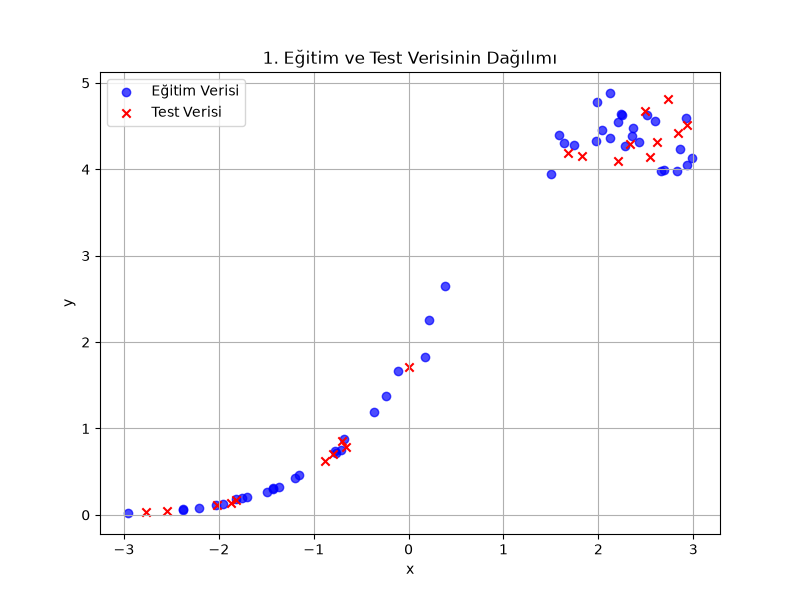
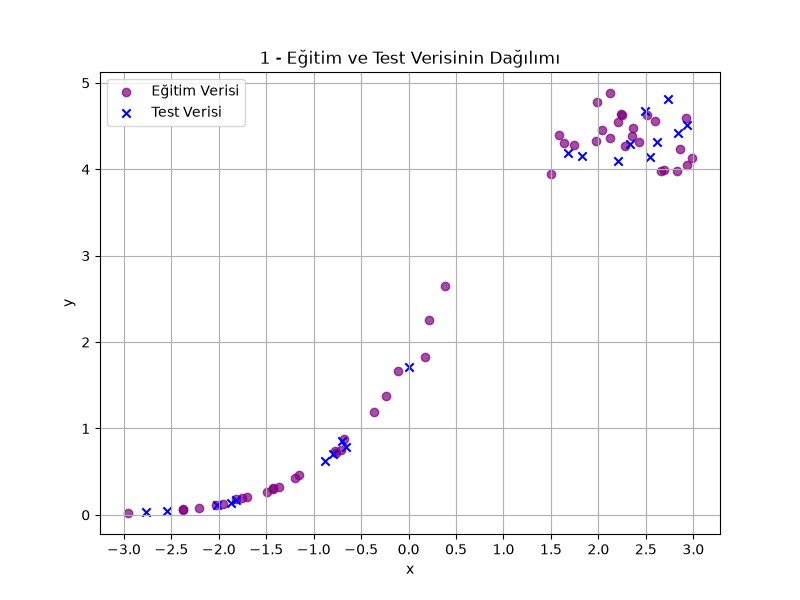
first 4 questions

diff --git a/optimization.py b/optimization.py
@@ -12,11 +12,13 @@ x_test, y_test = test_df.iloc[:, 0].values, test_df.iloc[:, 1].values
 x_pred_new = tahmin_df.iloc[:, 1].values
 
 plt.figure(figsize=(8, 6))
-plt.scatter(x_train, y_train, color="blue", label="Eğitim Verisi", alpha=0.7)
-plt.scatter(x_test, y_test, color="red", label="Test Verisi", marker="x")
+plt.scatter(x_train, y_train, color="purple", label="Eğitim Verisi", alpha=0.7)
+plt.scatter(x_test, y_test, color="blue", label="Test Verisi", marker="x")
+tum_bucuklular = np.arange(-3.0, 3.1, 0.5)
+plt.xticks(tum_bucuklular)
 plt.xlabel("x")
 plt.ylabel("y")
-plt.title("1. Eğitim ve Test Verisinin Dağılımı")
+plt.title("1 - Eğitim ve Test Verisinin Dağılımı")
 plt.legend()
 plt.grid(True)
 plt.savefig("soru1_veri.png")
@@ -35,14 +37,14 @@ def calculate_mse(y_true, y_pred):
 degrees = range(1, 9)
 train_mses = []
 test_mses = []
-models_beta = {}
+deg_to_coef = {}
 
 for deg in degrees:
   X_train = create_design_matrix(x_train, deg)
   X_test = create_design_matrix(x_test, deg)
 
   beta = np.linalg.inv(X_train.T @ X_train) @ X_train.T @ y_train
-  models_beta[deg] = beta
+  deg_to_coef[deg] = beta
 
   y_train_pred = X_train @ beta
   y_test_pred = X_test @ beta
@@ -53,38 +55,38 @@ for deg in degrees:
 results_df = pd.DataFrame(
     {"Derece": list(degrees), "Eğitim MSE": train_mses, "Test MSE": test_mses}
 )
-print("--- 2. Derecelere Göre MSE Tablosu ---")
+print("2 - Derecelere Göre MSE Tablosu ---")
 print(results_df.to_string(index=False))
 
 plt.figure(figsize=(8, 5))
-plt.plot(degrees, train_mses, marker="o", label="Eğitim MSE", color="blue")
-plt.plot(degrees, test_mses, marker="s", label="Test MSE", color="orange")
+plt.plot(degrees, train_mses, marker="o", label="Eğitim MSE", color="purple")
+plt.plot(degrees, test_mses, marker="s", label="Test MSE", color="blue")
 plt.xlabel("Polinom Derecesi")
 plt.ylabel("Ortalama Karesel Hata (MSE)")
-plt.title("2. Derecelere Göre Eğitim ve Test MSE Değişimi")
+plt.title("2 - Derecelere Göre Eğitim ve Test MSE Değişimi")
 plt.legend()
 plt.grid(True)
 plt.savefig("soru2_mse.png")
 plt.show()
 
 #3.soru
-best_deg_y = degrees[np.argmin(test_mses)]
+best_deg = degrees[np.argmin(test_mses)]
 print(
-    f"\n3. y için seçilen optimum derece (Test MSE'ye göre): {best_deg_y}"
+    f"\n3 - y için seçilen optimum derece (Test MSE'ye göre): {best_deg}"
 )
 
 #4.soru
-selected_deg = best_deg_y
-eval_degrees = [
+selected_deg = best_deg
+neighbor_degrees = [
     max(1, selected_deg - 1),
     selected_deg,
     min(8, selected_deg + 1),
 ]
 
 plt.figure(figsize=(10, 6))
-for deg in eval_degrees:
+for deg in neighbor_degrees:
   X_tr = create_design_matrix(x_train, deg)
-  y_tr_pred = X_tr @ models_beta[deg]
+  y_tr_pred = X_tr @ deg_to_coef[deg]
   residuals = y_train - y_tr_pred
   plt.scatter(
       x_train, residuals, label=f"Derece {deg}", alpha=0.7, edgecolors="k"
@@ -93,7 +95,7 @@ for deg in eval_degrees:
 plt.axhline(0, color="red", linestyle="--")
 plt.xlabel("x")
 plt.ylabel("Kalıntı (Gerçek - Tahmin)")
-plt.title("4. Kalıntı Grafikleri Karşılaştırması")
+plt.title("4 - Kalıntı Grafikleri Karşılaştırması")
 plt.legend()
 plt.grid(True)
 plt.savefig("soru4_kalinti.png")
@@ -134,9 +136,9 @@ print(f"5. ln(y) için seçilen optimum derece: {best_deg_log}")
 #6.soru
 print("\n--- 6. Bölgesel Davranış Analizi ve Görselleştirme ---")
 x_range = np.linspace(-4, 4, 400)
-X_range_matrix = create_design_matrix(x_range, best_deg_y)
+X_range_matrix = create_design_matrix(x_range, best_deg)
 
-y_pred_range_normal = X_range_matrix @ models_beta[best_deg_y]
+y_pred_range_normal = X_range_matrix @ deg_to_coef[best_deg]
 
 X_range_matrix_log = create_design_matrix(x_range, best_deg_log)
 y_pred_range_log = np.exp(X_range_matrix_log @ log_models_beta[best_deg_log])
@@ -148,7 +150,7 @@ plt.plot(
     y_pred_range_normal,
     color="red",
     linewidth=2,
-    label=f"Normal Model (Derece {best_deg_y})",
+    label=f"Normal Model (Derece {best_deg})",
 )
 plt.plot(
     x_range,
@@ -211,7 +213,7 @@ def gradient_descent_scaled(X, y, lr=1e-5, epochs=3000):
 
   return theta, cost_history, X_mean, X_std
 
-X_best_train = create_design_matrix(x_train, best_deg_y)
+X_best_train = create_design_matrix(x_train, best_deg)
 theta_gd, cost_hist, x_mean, x_std = gradient_descent_scaled(
     X_best_train, y_train, lr=0.01, epochs=3000
 )
@@ -221,14 +223,14 @@ plt.plot(cost_hist, color="purple")
 plt.xlabel("İterasyon (Epoch)")
 plt.ylabel("Kayıp (Cost - MSE/2)")
 plt.title(
-    f"7. Gradyan Düşümü Kayıp Eğrisi (Derece {best_deg_y}) - Ölçeklendirilmiş"
+    f"7. Gradyan Düşümü Kayıp Eğrisi (Derece {best_deg}) - Ölçeklendirilmiş"
 )
 plt.grid(True)
 plt.savefig("soru7_kayip.png")
 plt.show()
 
 print("\n--- 7. Katsayı Karşılaştırması ---")
-print("Analitik Beta:", models_beta[best_deg_y])
+print("Analitik Beta:", deg_to_coef[best_deg])
 print("Gradyan Düşümü Beta (Ölçekli):", theta_gd)
 
 #8.soru
